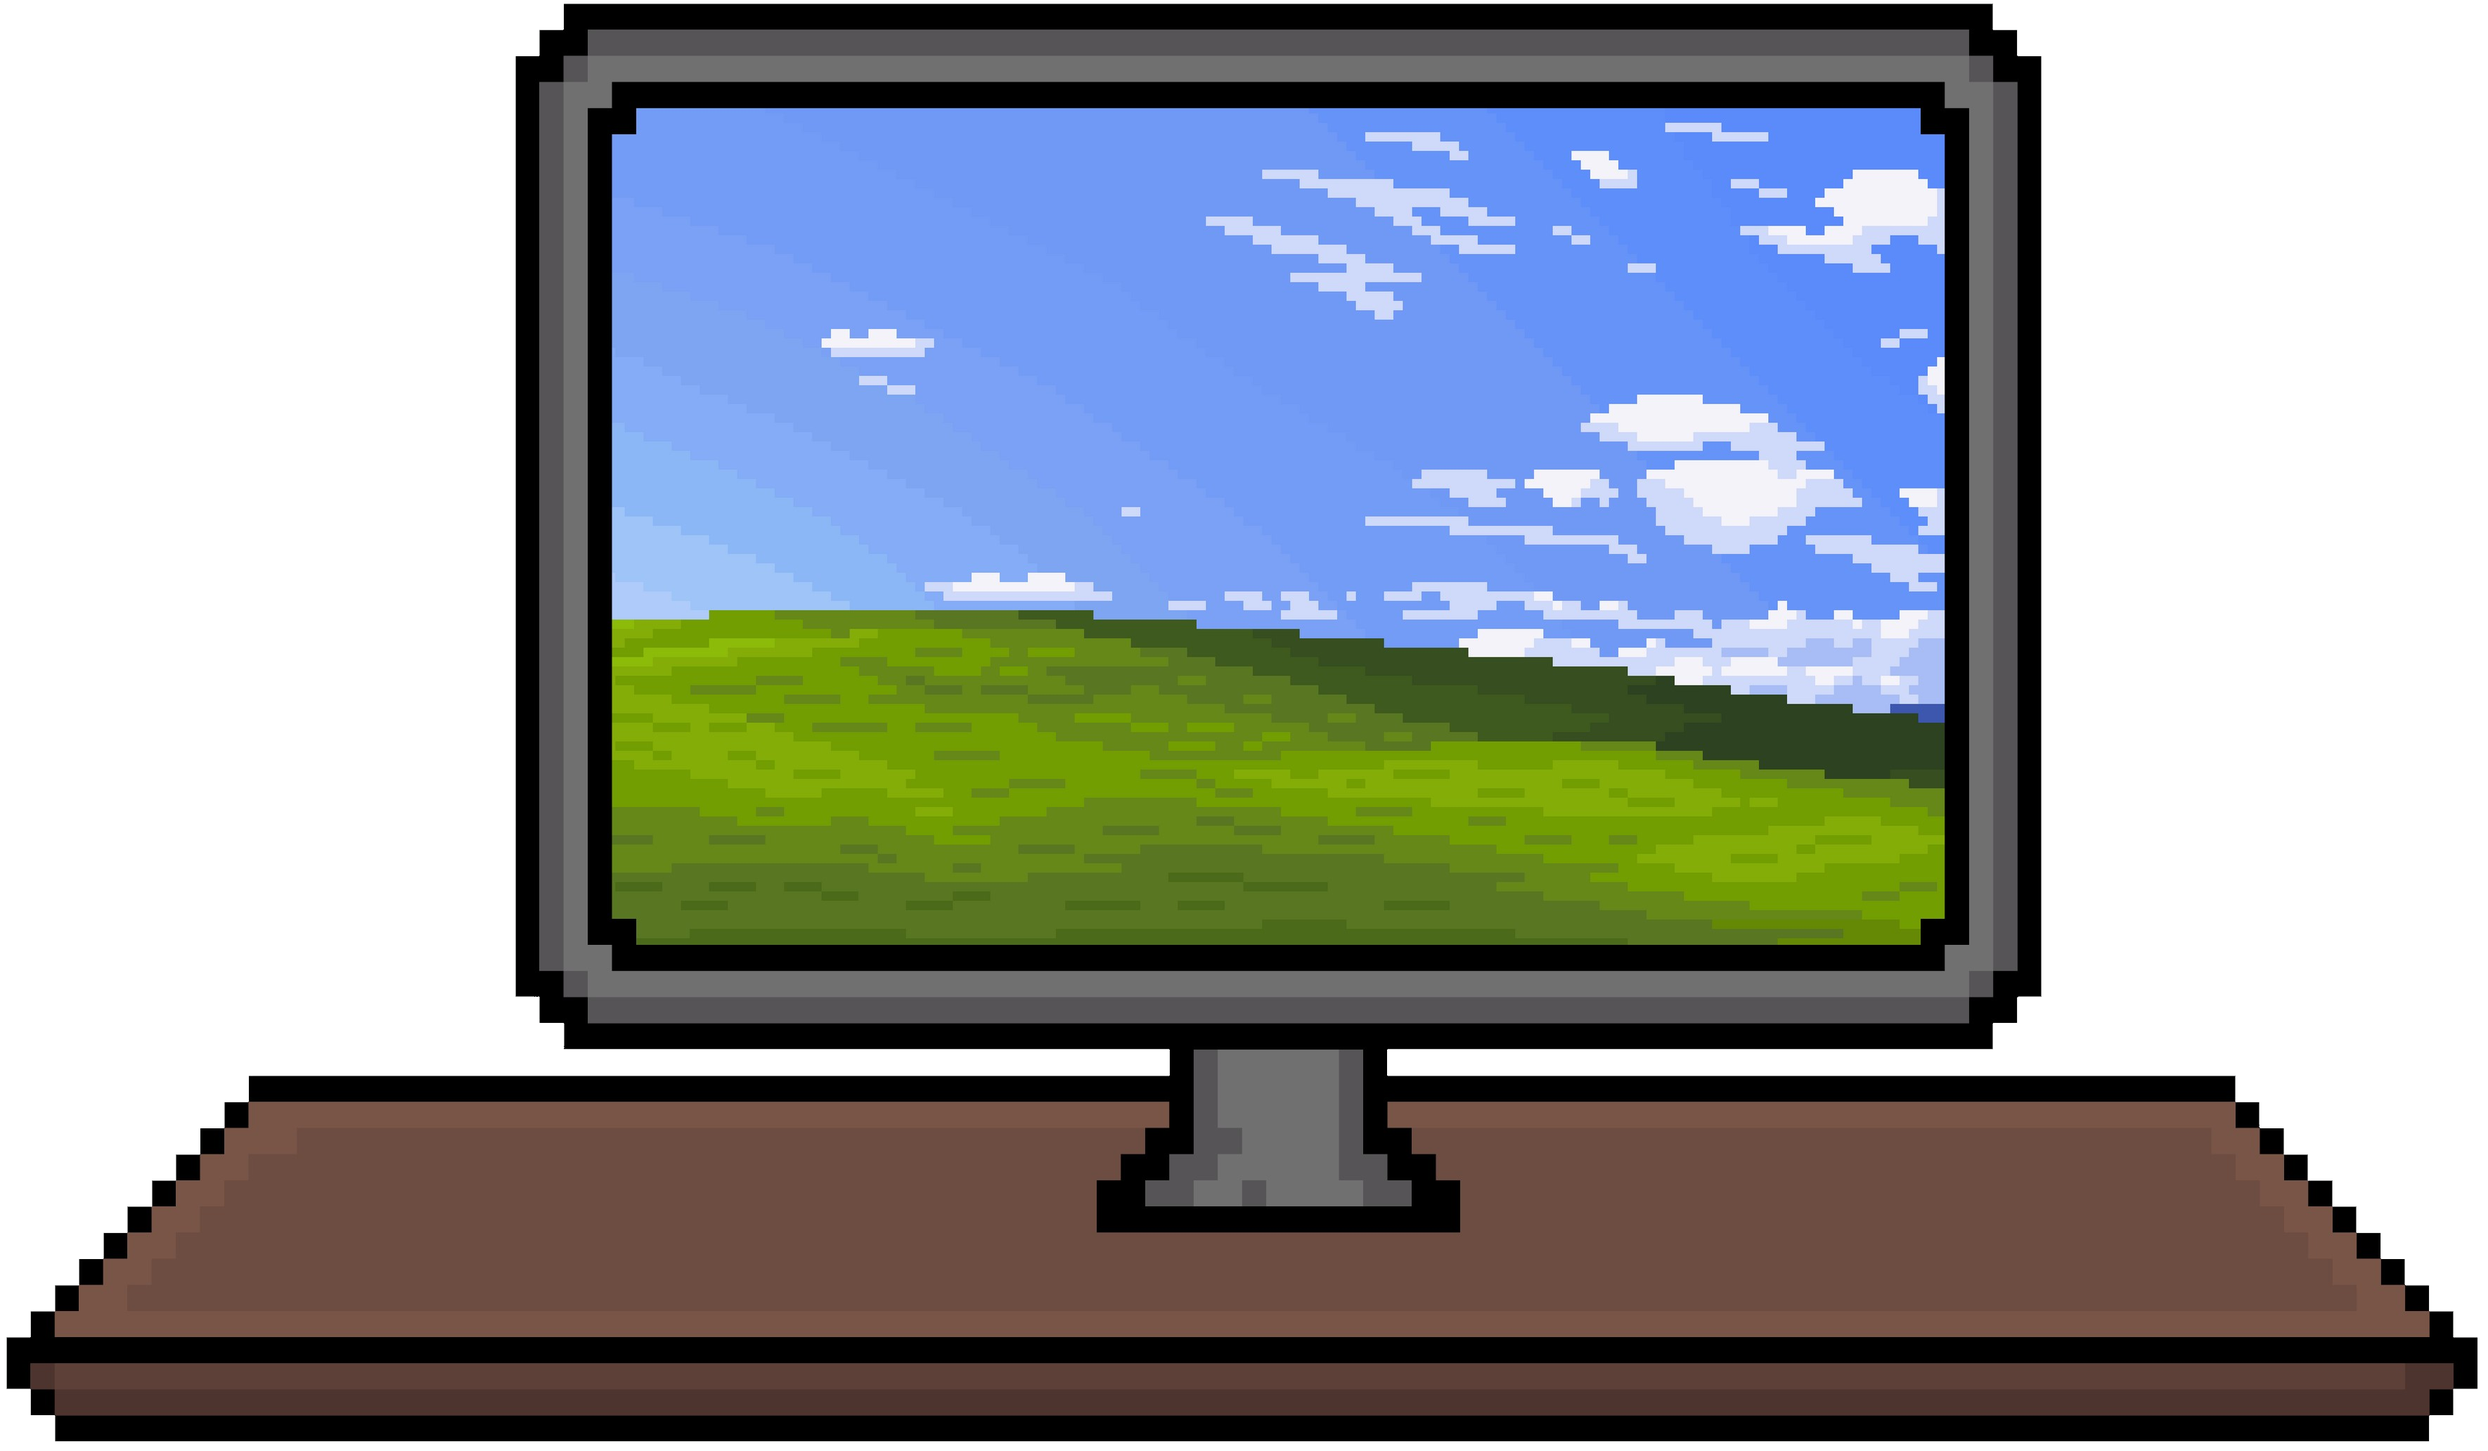
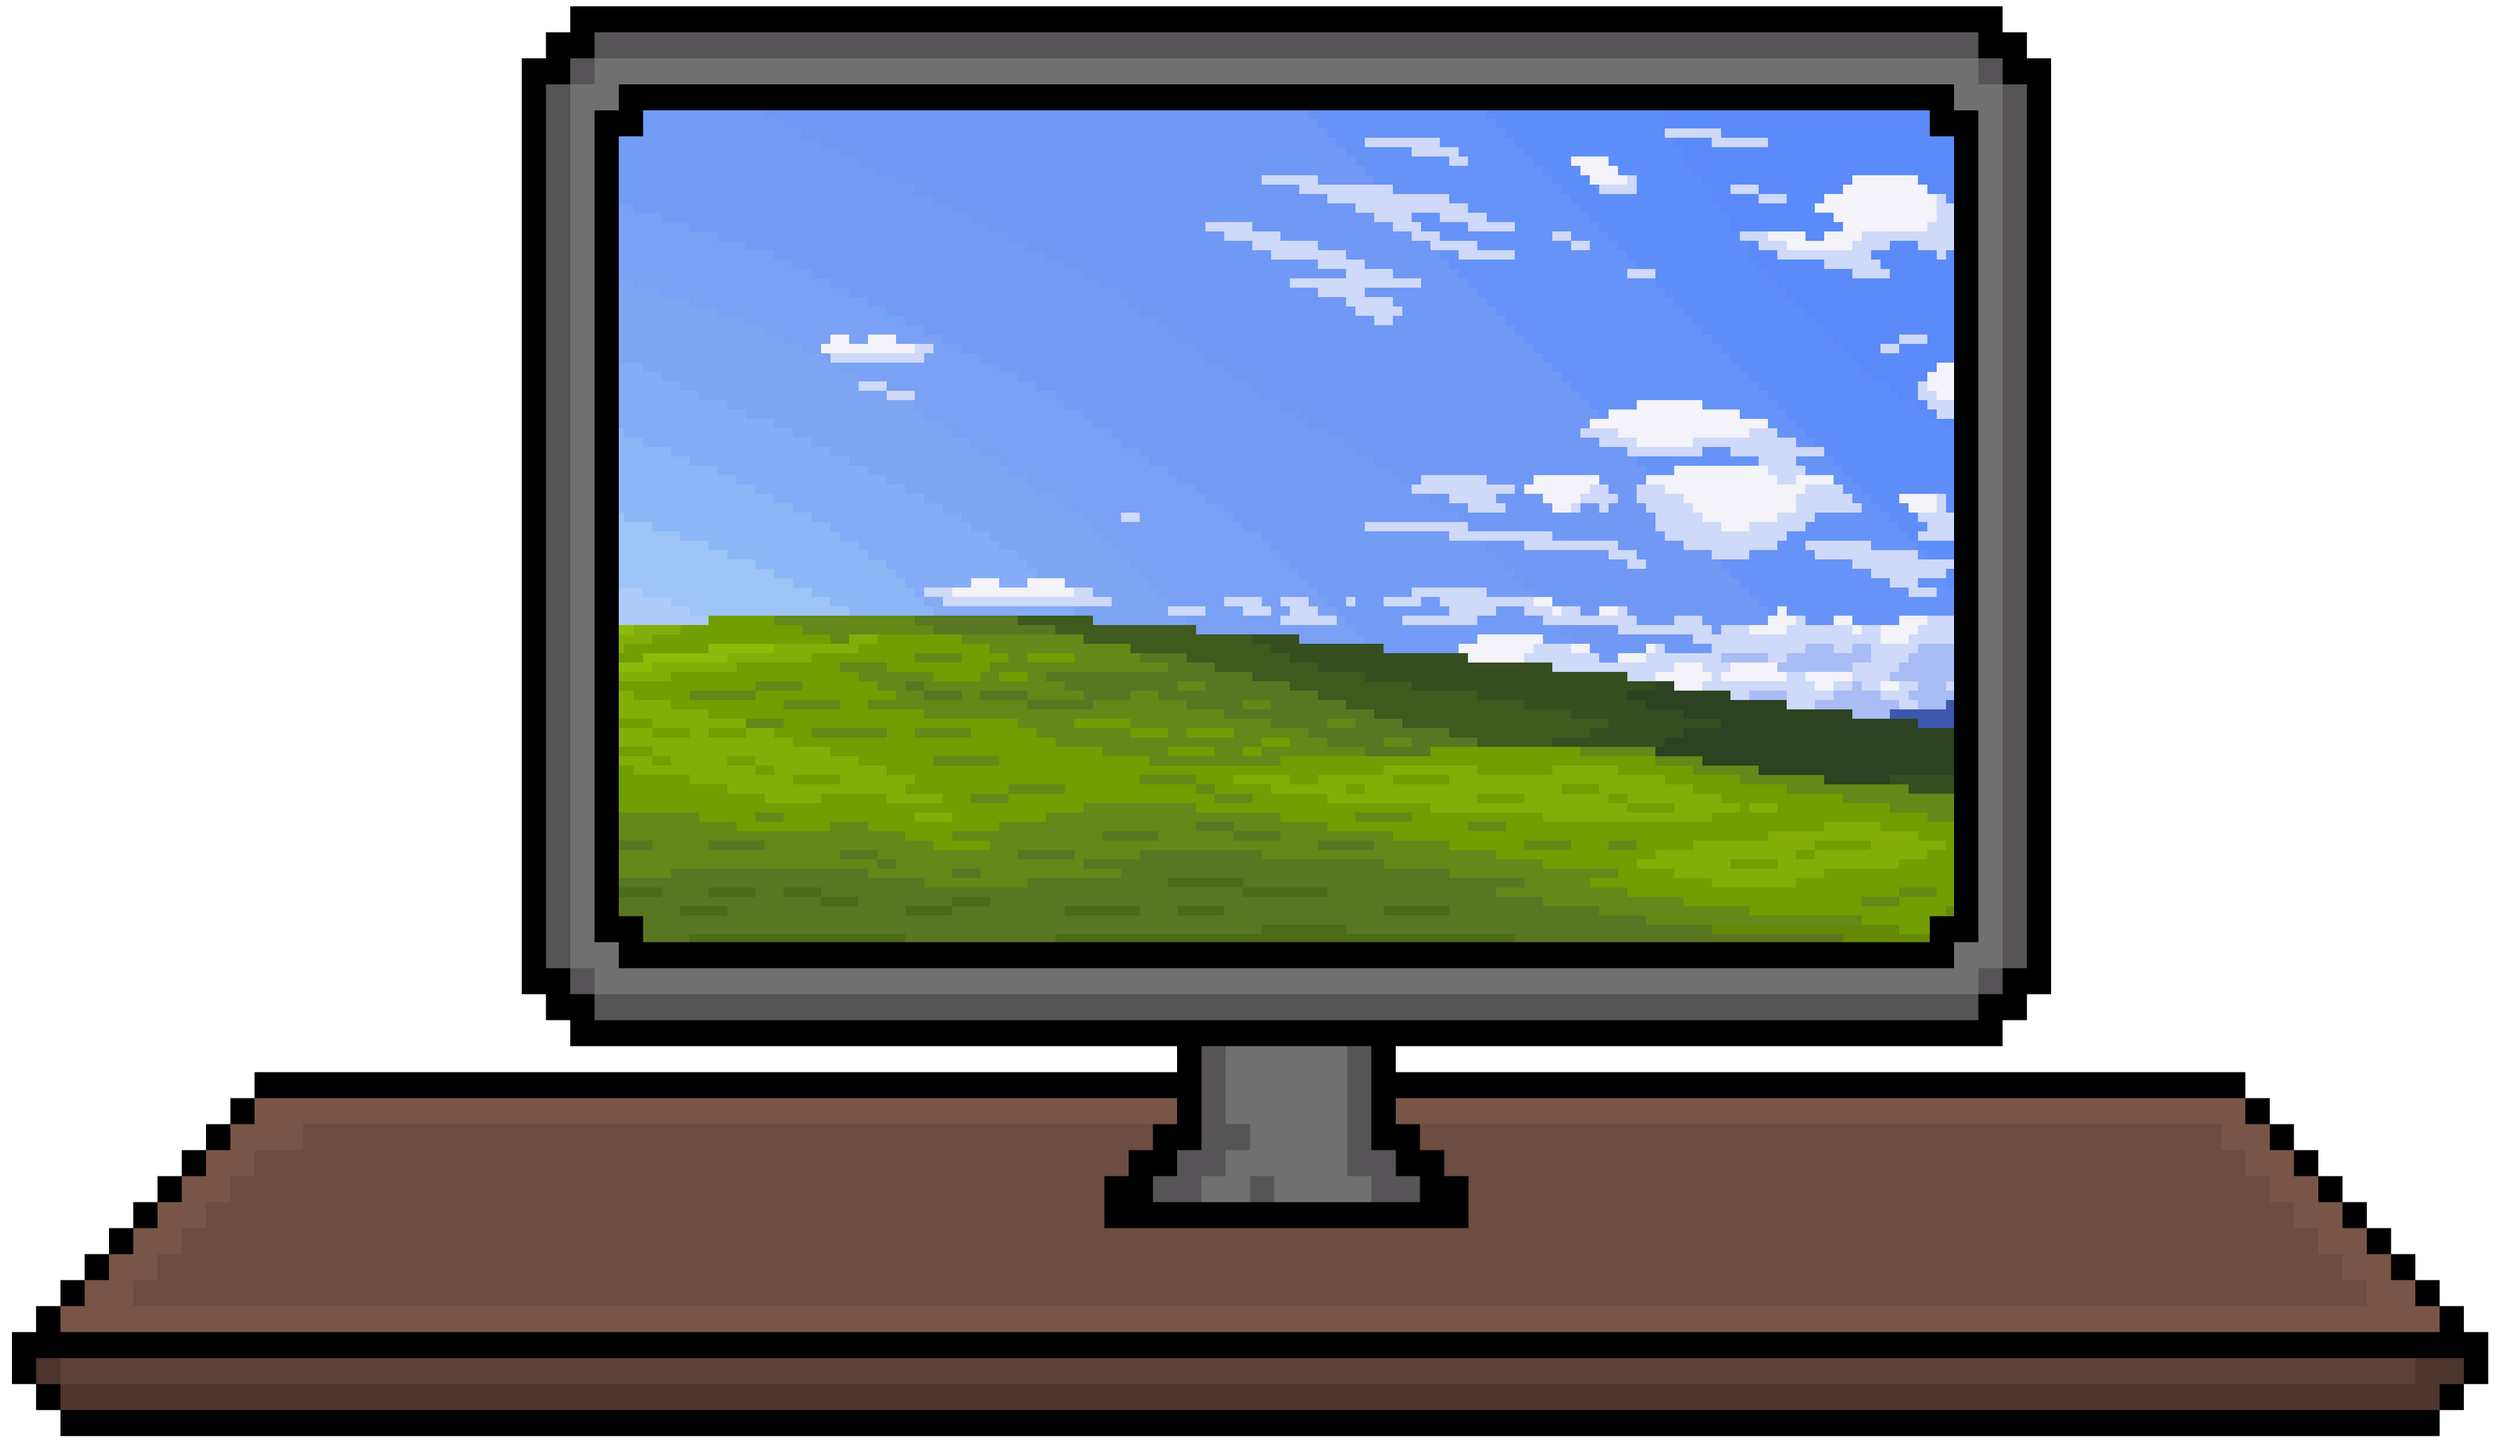
background_galere

diff --git a/css/game.css b/css/game.css
@@ -1,7 +1,12 @@
-body {
-	background: url('../img/fond_ecran_windows_xp.png') no-repeat center center fixed;
+div.ecran {
+    content:url('../img/fond_ecran_windows_xp.png');
+    width: 100%;
+    height: auto;
+    margin-left: auto;
+    margin-right: auto;
+	/*background: url('../img/fond_ecran_windows_xp.png') no-repeat center center fixed;
 	-webkit-background-size: cover;
 	-moz-background-size: cover;
-	background-size: 85%;
-	-o-background-size: cover;
+	background-size: 100%;
+	-o-background-size: cover;*/
 }
